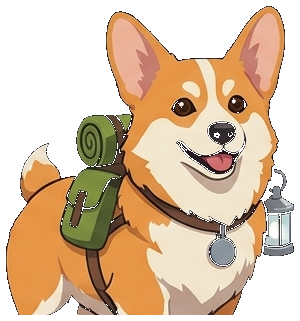
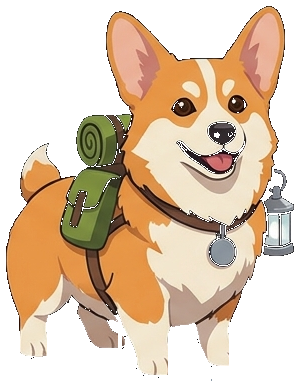
v41: complete pet cuts (legs/paws) + neutral isometric diamond tile
- Re-cut the avatars/ sheet so no pet is clipped at the legs: components are
  still labeled with the platform band masked by row, but each column is then
  extended downward through outlines/platform gaps (<=12px) to recover the
  paws; gray platform pixels (low-saturation mid-gray) are dropped by color,
  not by row. The corgi's lantern is assigned to the corgi, not the sphynx.
  New cuts shipped to avatars/cut + both asset catalogs; fallback 20x18
  grids regenerated (k-means) and idle/postcard goldens re-pinned.
- Ground tile is now a true 2:1 isometric diamond (rows w-2 D / w D / w-2 K)
  instead of a flat two-tone bar, and for image-backed pets it renders in
  neutral dark tones (D 26262B / K 0B0B0D) so the shadow is never tinted by
  the pet's shade token; accent overlays (blush/memento/week) keep the accent.
- Tile widths/centers follow each pet's feet (shadowCenterX); boop face
  rects unchanged. 337/337 tests green; validator + l10n + icon byte-stable.

Generated by Mistral Vibe.

diff --git a/AivatarShared/CompanionSprite.swift b/AivatarShared/CompanionSprite.swift
@@ -251,31 +251,31 @@ nonisolated enum AuthoredSprites {
     // pixel-honest fallback; the live stage/picker/phone draw the HD image.
 
     static let petFoxGrid: [String] = [
-    "W.......KWW.........",
-    "AA......AAW.........",
-    "AAB....AAAW.........",
-    "AWBB..BABAW.........",
-    "WAABBBAWBA..........",
-    ".AWABAAWWW..........",
+    "WK......KWW.........",
+    "BA.....ABBW.........",
+    "BBDK..DAWBW.........",
+    "WBADDDDWDBW.........",
+    "DBWADDAWBW..........",
     ".WAAAAAWW...........",
-    "..AAAKAAW...........",
-    "..WWBWWW............",
-    "..WKWWWBDDAK........",
-    "...AAAADDDDDA.......",
-    "...KWWDAKKDDAAK.....",
-    "...KKDAAAKDDAAA.KDD.",
-    "....WWWAAKKABAAADDK.",
-    "....WWWAKAAABBAAAK.K",
-    "....BBAABBAAABAAAAKK",
-    ".....ABABBWWABBBAAKK",
-    ".....AAAKBBWAKBBBBK.",
+    "..AAAKAAK...........",
+    "..WWWWWW............",
+    "...WBBAKKDDD........",
+    "...BBWKKKDDDAA......",
+    "...KKKAAAKDDAAA.KDD.",
+    "....WWWAAKDADAAADDK.",
+    "....BBWAKBAADDAAAKKK",
+    ".....DDADDWAADDAAAKK",
+    ".....BBADDDWADDDDDKK",
+    ".....BBW.D..WB.DDDK.",
+    ".....BWW.D..WA......",
+    ".....WWW....WK......",
 ]
     static let petFoxPalette: [Character: String] = [
-    "K": "44281C",
-    "D": "7C5642",
-    "B": "B77C55",
+    "K": "4E3023",
+    "D": "AB724E",
+    "B": "C59D8A",
     "W": "F2E1C5",
-    "A": "E1AF7B",
+    "A": "E9B575",
 ]
 
     static let petMockingbirdGrid: [String] = [
@@ -284,110 +284,110 @@ nonisolated enum AuthoredSprites {
     "KKKKW...............",
     "KKKKKW.......AAAA...",
     "WKKKKKK.....AAWAAKK.",
-    "WWKKKKK....KABBBBK..",
-    ".WAKKKK....AAWWBB...",
-    ".WWAKKKK.AAAAABBB...",
-    "..WWAKAAAAAAAABBB...",
-    "....WBAAKKKKKWBBB...",
-    ".....AADWKKKKWWWW...",
-    ".....KADKWWBWWWWW...",
-    ".....KKKKBBWWWWB..D.",
-    "....KKKKBBBBBB...DD.",
-    "....KKKK.KKAKKK.DDKD",
+    "WWKKKKK....KAAAABK..",
+    ".WWKKKK....AAAWBB...",
+    ".WWDKKKK.DDADABBB...",
+    "..WWAKDDDDDDDDBBB...",
+    "....WDDDKKKKKWBBB...",
+    ".....DDDWKKKKWWWW...",
+    ".....DDDKWWAWWWWW...",
+    ".....KKKKAAWWWWA..D.",
+    "....KKKKAAAAAA...DD.",
+    "....KKKK.KKDKKK.DDKD",
     "..........KK.KKKDKKD",
     "..........KKDKKK....",
-    "...........KKKKKK...",
+    "..........KKKKKKK...",
 ]
     static let petMockingbirdPalette: [Character: String] = [
-    "K": "363A44",
-    "D": "6F6662",
-    "B": "B1B2B8",
-    "W": "E4E8EC",
-    "A": "828792",
+    "K": "373B44",
+    "D": "77757B",
+    "B": "C3C1BF",
+    "W": "E4E9ED",
+    "A": "959CA8",
 ]
 
     static let petShibaGrid: [String] = [
-    ".........KA.....AAA.",
-    ".........AWAA..AAWW.",
-    ".........AAWAAAAAAA.",
-    ".........AAAAAAAWAAK",
+    ".........KAK....AWA.",
+    ".........AWAAAAAAAW.",
+    ".........AAAAAAAAAA.",
     ".........AAAAKAAAAAA",
     ".........AAWWWWWKKWW",
-    "..WWWWWD.AWWWWWWBWWB",
-    ".WWAAAAW.AAWWWWWABA.",
-    ".WAAAAAAAAKAAWWBBBA.",
-    ".WAAAADDDAADDDDDDDA.",
-    ".WWAADDDDDAAAWWBBWAK",
-    ".AAAADDDDDDDDAWBBAD.",
-    ".AAAAADDDDDDDDDWWDB.",
-    ".AAAAWBKDDDDDDDWKDD.",
-    ".AAAWBBKBDDDDDBBDD..",
-    ".AAWB.BBBDDDDBDDDD..",
-    "AAWW..BBBAAAA.BAAB..",
-    "AWW...BBB.AAA.BBA...",
+    ".KWWWWWW.AWWWWWWBWWB",
+    ".WAAAAAW.AAAWWWBBBA.",
+    ".WAAAAAAKAKKKWWWBKA.",
+    ".WAAADDKDAAAKKKKKWAB",
+    ".KAAADKDDDDDAWWBBAAA",
+    ".AAAAAKDDDDDDDWWWDB.",
+    ".AAAAWKKDDDDDDDWKDD.",
+    ".AAAWBBBBDDDDKBDDD..",
+    ".AAWB.BBBDDDD.AAAD..",
+    "AWWK..BBBKAAA.BBA...",
+    "WWW...BBB.AAA.BWA...",
+    "WW.....BB.WWA..WW...",
+    "WW.........WW..WW...",
 ]
     static let petShibaPalette: [Character: String] = [
-    "K": "37251B",
-    "D": "3E5364",
-    "B": "B69C82",
+    "K": "483327",
+    "D": "31546E",
+    "B": "B49A81",
     "W": "F0E1C7",
-    "A": "C98746",
+    "A": "CA8746",
 ]
 
     static let petCorgiGrid: [String] = [
-    ".......AA.......AAA.",
-    ".......BBAD....KABB.",
-    ".......BBBAK...AABB.",
-    ".......ABAAAAWAAABB.",
-    ".......ABAAAAAAAABA.",
-    ".......KAAAAAAWKAAA.",
-    ".....DDKDAAAKWWWAAK.",
-    ".....DDDAAWWWWKKWWA.",
-    ".WWW.DDKAWWWWWWWWWA.",
-    ".WAAKDDKAAWWWKABWAAK",
-    ".AAAADDKAAAWWWBWWADK",
-    ".AAADKDKAAKKWWWWWADB",
-    "AAAADDKKAAAWDDWWWAWW",
-    "AAAADDKAAAWWWWBWWAWW",
-    "AAAAAADAAAWWWWBBWDDD",
-    "AAAAAADAAAWWWWWWB...",
-    "AAAWBBKAAAABBWBBB...",
-    "KAWWBBBKAAABBBBD....",
+    ".......AAK......AAA.",
+    ".......BBAA....AABB.",
+    ".......BBBAAAWAAABB.",
+    ".......ABBAAAWAAABA.",
+    ".......KAAAAAAWAAAA.",
+    ".....DDDDAAAAWWWAAA.",
+    "..WW.DDDAWWWWWKWWWA.",
+    ".WWA.DDKAAWWWWAKWWA.",
+    ".AAAADDKAAAWWBBBWABB",
+    ".AAADDDDAAKWWWWWWADB",
+    "AAAADDDKAAWWDDDWWAWW",
+    "AAAAADDAAAWWWWBBWADD",
+    "AAAAAADAAAWWWWWWBK..",
+    "AAAABAKAAAABBWWBB...",
+    "KAWWBBBBAAABBBBA....",
+    ".WWW.BBBWWWWBBWW....",
+    ".WWW..BBWWWW.BWW....",
+    ".........WWW..WW....",
 ]
     static let petCorgiPalette: [Character: String] = [
-    "K": "3E2F1C",
-    "D": "7F744A",
-    "B": "CEA791",
+    "K": "392718",
+    "D": "766E45",
+    "B": "C9A48E",
     "W": "F1E5CC",
-    "A": "DF924C",
+    "A": "DF924B",
 ]
 
     static let petSphynxGrid: [String] = [
     ".......DWD.......DDD",
-    ".......WWDDD....BDWW",
+    ".......WWDDD...DDDWW",
     ".......DWWDDBBBBDWWD",
-    ".......KDWDBBBBBBDW.",
-    "........DDBBBBBBBBD.",
-    ".........DDBBBBBBB..",
-    "..........WDBBBBD...",
-    ".........BWWADDWB...",
-    "........BBWWAAWWW...",
-    ".....BBBBBBABABWW...",
-    "...BBBBBBBBBBBDBB...",
+    ".......KDDDBBBBBBDW.",
+    "........DDBABBBAABD.",
+    ".........KDBBBBBBD..",
+    "..........WDDDDDD...",
+    ".........WWWWWDWD...",
+    ".......BBBWWWWWWW...",
+    ".....BBBBBBBWWAWW...",
+    "...BBBBBBBBBBBBBB...",
     "..BBBBBBBBBBBBBBB...",
-    ".DBBBBBBBBBBBBDDB...",
+    ".BBBBBBBBBBBDDDBK...",
     ".BBBBBBDBBBDDDDB....",
-    ".BBBBBBDBBBDDDBK....",
+    "BBBBBBBDDBBDDDBD....",
     "BBBBBBBDDBBDDDB.....",
-    "BBBBBBBBDBBDDDB.....",
-    "BBBBBBBBDDBBDBB.....",
+    "BBBBBBBBDDBDDDB.....",
+    "BBBBBBDBDDBBDBB.....",
 ]
     static let petSphynxPalette: [Character: String] = [
     "K": "2F2624",
     "D": "614F53",
-    "B": "847B80",
-    "W": "B58B67",
-    "A": "D5C478",
+    "B": "87797E",
+    "W": "BC966A",
+    "A": "53B1A0",
 ]
 
     // MARK: The five companions (image-backed)

diff --git a/AivatarShared/SpriteStageMetadata.swift b/AivatarShared/SpriteStageMetadata.swift
@@ -36,7 +36,7 @@ nonisolated enum SpriteStageMetadata {
             // the body center right.
             return AnimalMeta(
                 faceRect: (1, 2, 12, 12),
-                shadowRow: 15, shadowWidth: 14, shadowCenterX: 11,
+                shadowRow: 15, shadowWidth: 12, shadowCenterX: 10,
                 blushL: (2, 9), blushR: (11, 9),
                 vapor: [(5, 0), (6, 0)]
             )
@@ -52,7 +52,7 @@ nonisolated enum SpriteStageMetadata {
             // Corgi: head top-center-right.
             return AnimalMeta(
                 faceRect: (6, 1, 11, 11),
-                shadowRow: 15, shadowWidth: 12, shadowCenterX: 9,
+                shadowRow: 15, shadowWidth: 10, shadowCenterX: 9,
                 blushL: (7, 7), blushR: (16, 7),
                 vapor: [(10, 0), (11, 0)]
             )
@@ -89,14 +89,14 @@ nonisolated enum SpriteStageMetadata {
         return x >= f.x && x < f.x + f.w && y >= f.y && y < f.y + f.h
     }
 
-    /// The ground tile (E9.1 shadow, evolved v35 into a pseudo-3D isometric
-    /// slab — flat tokens only, no gradients, so the pixel-honesty rules hold):
-    ///   row+0: width w-2, `D` (top face, narrow)
+    /// The ground tile (E9.1, evolved v35/v41 into an isometric DIAMOND —
+    /// flat tokens only, no gradients, so the pixel-honesty rules hold):
+    ///   row+0: width w-2, `D` (top face, pointed)
     ///   row+1: width w,   `D` (top face, widest)
-    ///   row+2: width w,   `K` (ink front face = the slab's thickness)
-    /// The diamond-plus-lip reads as an isometric ground plane in classic
-    /// pixel-art fashion. `widthExtra` widens every row (the breathe frame
-    /// swells the tile as the companion inhales — the tile is animated).
+    ///   row+2: width w-2, `K` (ink front lip, inset)
+    /// The pointed rows read as a classic 2:1 iso ground plane instead of a
+    /// flat bar. `widthExtra` widens every row (the breathe frame swells the
+    /// tile as the companion inhales — the tile is animated).
     /// Rows past the grid bottom are clamped away.
     static func shadowCells(_ archetype: Archetype, widthExtra: Int = 0) -> [CompanionSprite.CellDiff] {
         let m = meta(for: archetype)
@@ -104,7 +104,7 @@ nonisolated enum SpriteStageMetadata {
         let rows: [(dy: Int, width: Int, symbol: Character)] = [
             (0, max(0, w - 2), "D"),
             (1, w, "D"),
-            (2, w, "K"),
+            (2, max(0, w - 2), "K"),
         ]
         var cells: [CompanionSprite.CellDiff] = []
         for (dy, width, symbol) in rows {

diff --git a/AivatarShared/PetImageRender.swift b/AivatarShared/PetImageRender.swift
@@ -77,15 +77,25 @@ nonisolated enum PetImageRender {
             else { partial.append((r, d.symbol, d.alpha)) }
         }
         for (symbol, path) in paths {
-            if let hex = sprite.paletteHex[symbol] {
-                ctx.fill(path, with: .color(color(hex)))
-            }
+            ctx.fill(path, with: .color(cellColor(sprite, symbol)))
         }
         for (rect, symbol, alpha) in partial {
-            if let hex = sprite.paletteHex[symbol] {
-                ctx.fill(Path(rect), with: .color(color(hex).opacity(Double(alpha))))
+            ctx.fill(Path(rect), with: .color(cellColor(sprite, symbol).opacity(Double(alpha))))
+        }
+    }
+
+    /// Overlay cell color. v41: for image-backed pets the ground tile (and
+    /// any ink) is neutral dark — a shadow is not tinted by the pet's shade
+    /// token (the corgi's D is olive); accent cells keep the pet's accent.
+    private static func cellColor(_ sprite: CompanionSprite, _ symbol: Character) -> Color {
+        if sprite.isImageBacked {
+            switch symbol {
+            case "D": return color("26262B")
+            case "K": return color("0B0B0D")
+            default: break
             }
         }
+        return color(sprite.paletteHex[symbol] ?? "000000")
     }
 
     static func color(_ hex: String) -> Color {

diff --git a/Aivatar Watch AppTests/CompanionSpriteTests.swift b/Aivatar Watch AppTests/CompanionSpriteTests.swift
@@ -94,11 +94,13 @@ final class CompanionSpriteTests: XCTestCase {
             // gained its 2-cell mouth — the other three idle grids are unchanged.
             // Re-pinned v40: the five companions are now auto-downsampled
             // pet grids (HD image-backed); lumen keeps its authored grid.
-            .ember: 13_119_732_844_903_430_415,
-            .willow: 625_819_346_969_015_129,
-            .compass: 8_738_366_297_932_403_113,
-            .prism: 5_421_257_008_312_214_618,
-            .nimbus: 1_244_477_897_577_249_929,
+            // Re-pinned v41: cuts now include the legs/paws (platform removed
+            // by color, not by row band).
+            .ember: 15_372_849_707_682_877_320,
+            .willow: 8_363_715_098_910_483_911,
+            .compass: 11_677_586_957_638_007_877,
+            .prism: 6_394_448_247_842_795_144,
+            .nimbus: 2_448_921_687_502_174_694,
             .lumen: 15_613_248_097_422_517_119,
         ]
         var actual: [Archetype: UInt64] = [:]

diff --git a/Aivatar Watch AppTests/HapticsAndPostcardTests.swift b/Aivatar Watch AppTests/HapticsAndPostcardTests.swift
@@ -113,11 +113,12 @@ final class HapticsAndPostcardTests: XCTestCase {
             // idleB foot step change the authored frames; willow and prism
             // first frames are unchanged.
             // Re-pinned v40: pet downsample grids (image-backed companions).
-            .ember: 13_119_732_844_903_430_415,
-            .willow: 6_208_847_639_857_728_232,
-            .compass: 7_028_191_633_825_068_648,
-            .prism: 5_421_257_008_312_214_618,
-            .nimbus: 1_244_477_897_577_249_929,
+            // Re-pinned v41: complete pet cuts (legs included).
+            .ember: 15_372_849_707_682_877_320,
+            .willow: 13_042_637_692_457_985_637,
+            .compass: 6_493_603_783_392_441_931,
+            .prism: 6_394_448_247_842_795_144,
+            .nimbus: 2_448_921_687_502_174_694,
             .lumen: 1_557_286_761_931_598_275,
         ]
         var recorded: [String] = []
